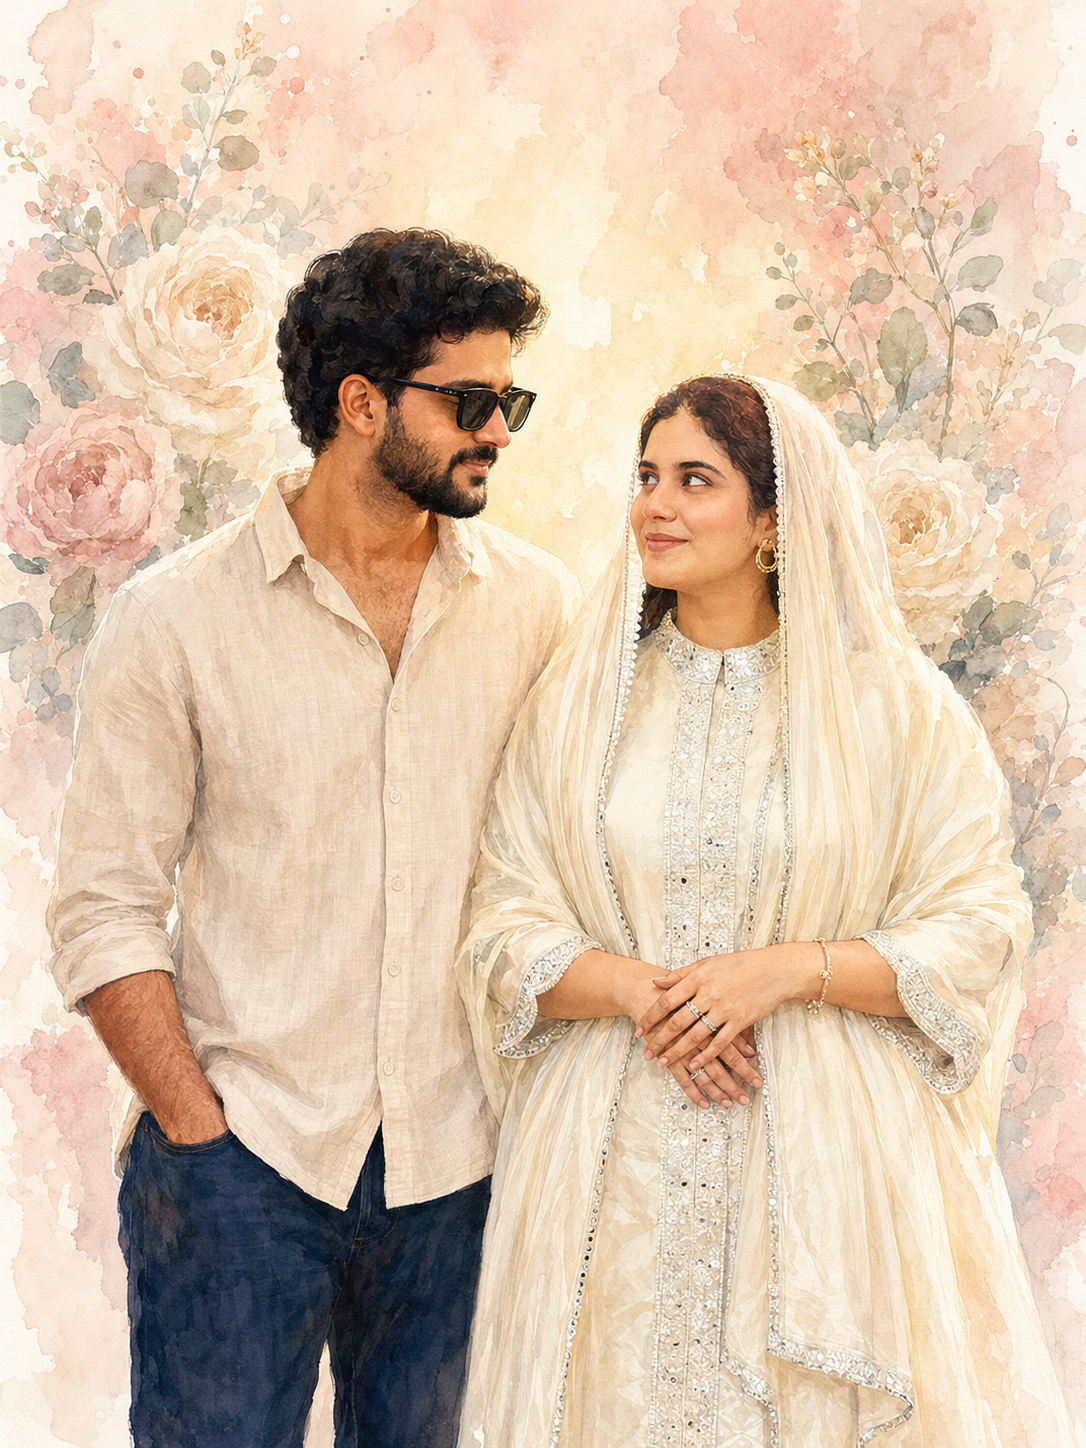
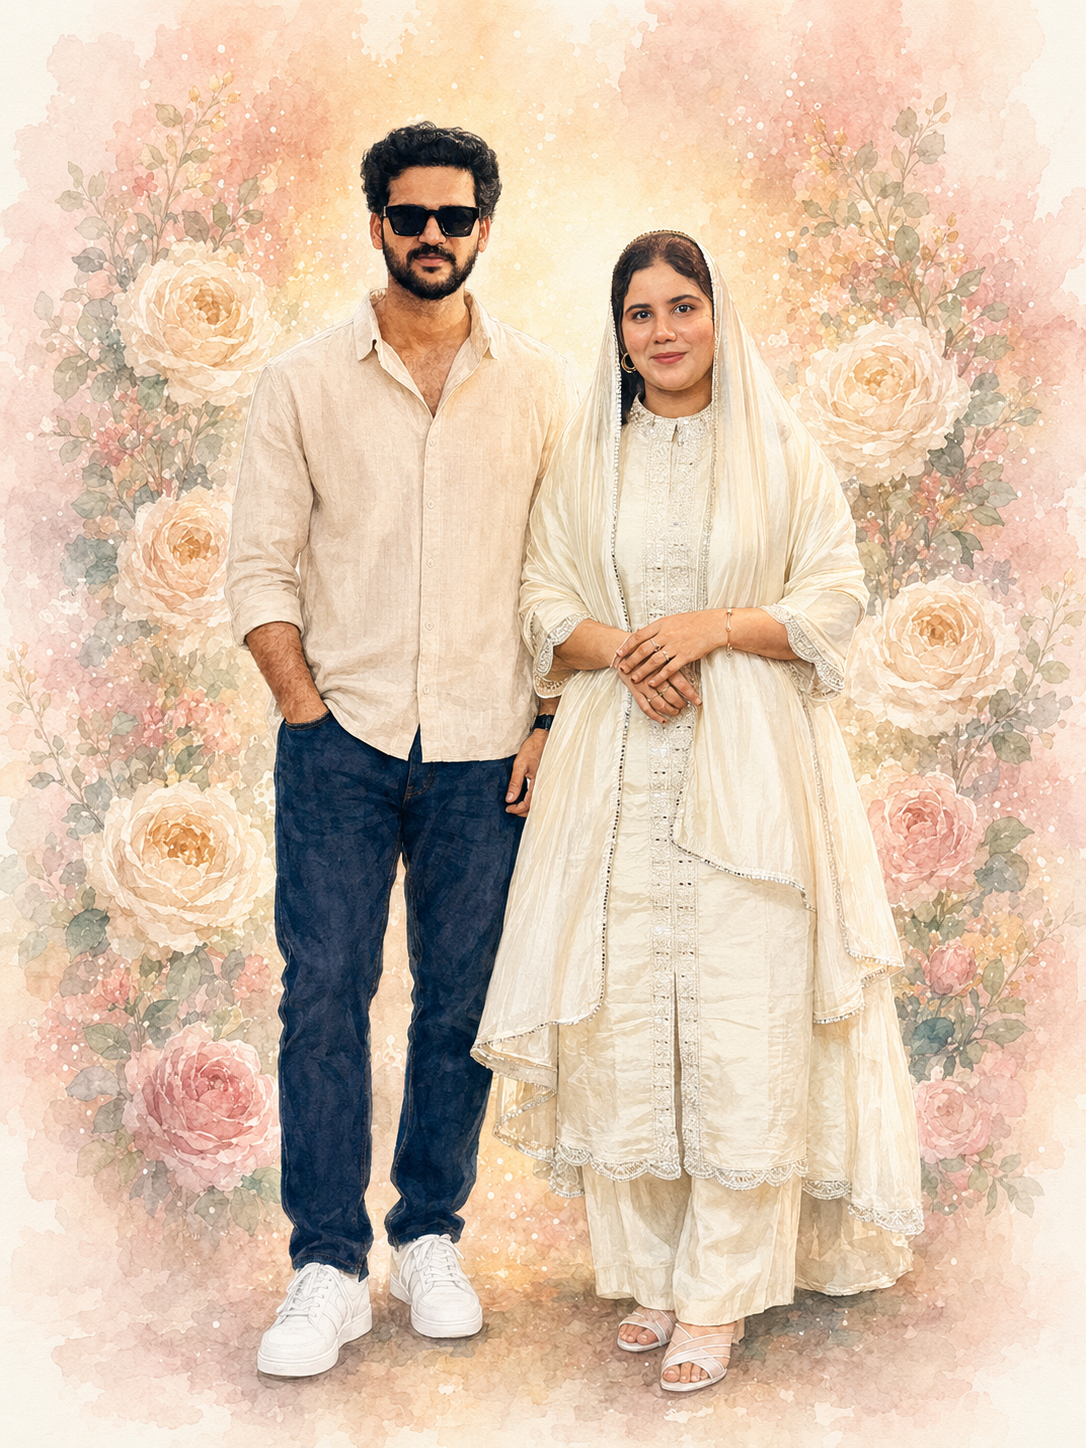
image update

diff --git a/src/components/MusicButton.jsx b/src/components/MusicButton.jsx
@@ -5,6 +5,16 @@ export default function MusicButton({ shouldPlay }) {
   const [playing, setPlaying] = useState(false)
   const audioRef = useRef(null)
 
+  // Preload the audio as soon as the component mounts,
+  // so it's already buffered by the time shouldPlay becomes true
+  useEffect(() => {
+    if (audioRef.current) {
+      audioRef.current.preload = 'auto'
+      audioRef.current.load()
+    }
+  }, [])
+
+  // Play when triggered from the parent (e.g. after a click/enter action)
   useEffect(() => {
     if (shouldPlay && audioRef.current) {
       audioRef.current.volume = 0.28
@@ -14,15 +24,23 @@ export default function MusicButton({ shouldPlay }) {
 
   const toggle = () => {
     if (!audioRef.current) return
-    if (playing) { audioRef.current.pause(); setPlaying(false) }
-    else { audioRef.current.play(); setPlaying(true) }
+    if (playing) {
+      audioRef.current.pause()
+      setPlaying(false)
+    } else {
+      audioRef.current.play().then(() => setPlaying(true)).catch(() => {})
+    }
   }
 
   return (
     <>
-      {/* 🎵 Replace src with your own hosted Arabic/Nasheed .mp3 URL */}
-      <audio ref={audioRef} loop src="music.mp3" />
-      <button className={styles.btn} onClick={toggle} title={playing ? 'Pause music' : 'Play music'}>
+      {/* Make sure music.mp3 lives in your /public folder */}
+      <audio ref={audioRef} loop preload="auto" src="/music.mp3" />
+      <button
+        className={styles.btn}
+        onClick={toggle}
+        title={playing ? 'Pause music' : 'Play music'}
+      >
         {playing ? '🎵' : '🔇'}
       </button>
     </>